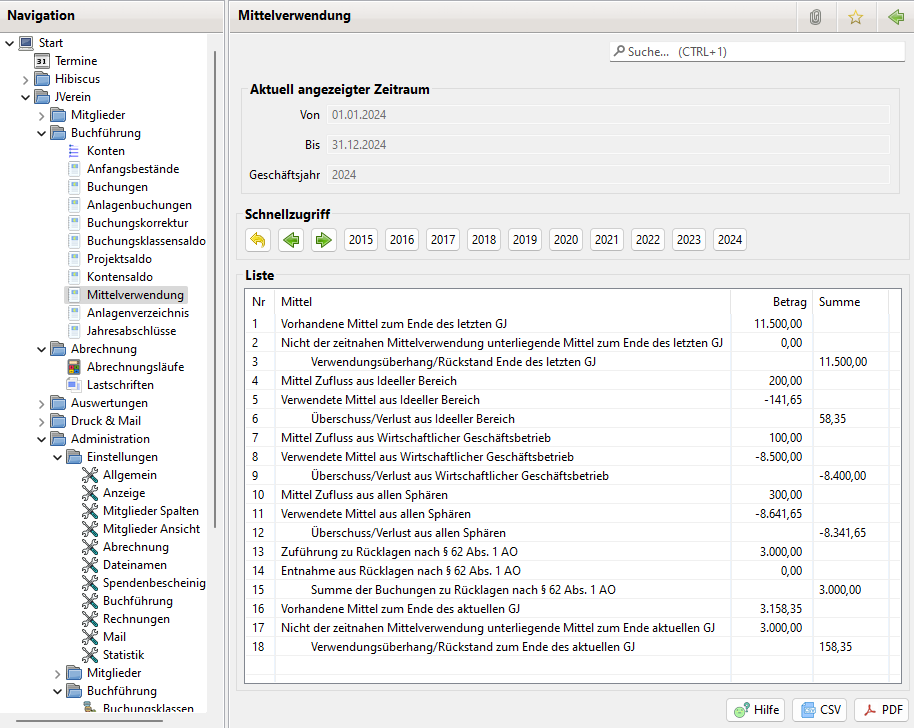
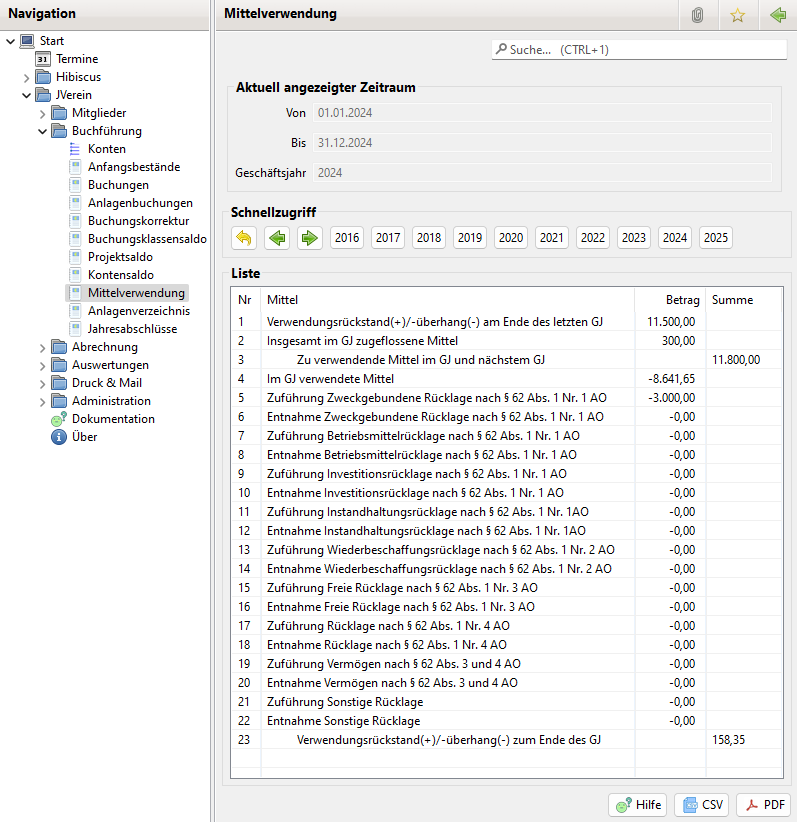
Update Mittelverwendung

Changed region(s): [[0.0, 0.0, 1.0, 1.0], [0.9034, 0.5742, 0.9335, 0.6044]]

diff --git a/v2.9.0/buchf/mittelverwendung.md b/v2.9.0/buchf/mittelverwendung.md
@@ -2,41 +2,34 @@
 
 ### Aktivierung
 
-Zur Nutzung der Mittelverwendung ist die Option in den Einstellungen->Administration->Einstellungen->Anzeige zu aktivieren.
+Zur Nutzung der Mittelverwendung ist die Option in Administration->Einstellungen->Anzeige zu aktivieren.
 
 Anschließend sollte JVerein neu gestartet werden, damit der Menüpunkt "Mittelverwendung" zur Verfügung steht.
 
 ### Allgemeines
 
-Gemeinnützige Vereine müssen ihre Einnahmen (Geld!) im aktuellen und den zwei folgenden Jahren ausgegeben haben (zeitnahe Verwendung). Dieses müssen sie dem Finanzamt nachweisen. Sie dürfen aber Rücklagen bilden. Diese sind der zeitnahen Verwendung entzogen.
+Gemeinnützige Vereine müssen ihre Einnahmen (Finanzen und Sachen) im aktuellen und den zwei folgenden Jahren verwenden muss (zeitnahe Verwendung). Dieses müssen sie dem Finanzamt nachweisen. Sie dürfen aber Rücklagen und Vermögen bilden. Diese sind der zeitnahen Verwendung entzogen.
 
-Es gibt keine feste Vorgabe wie ein Mittelverwendung Nachweis auszuschauen hat. JVerein zeigt einen Report der den Mittel Zufluss und Abfluss zeigt (Einnahmen/Ausgaben Rechnung).
+Es gibt keine feste Vorgabe wie ein Mittelverwendung Nachweis auszuschauen hat. JVerein zeigt einen Report der den Mittel Zufluss und Abfluss und die zeitnah zu verwendenden Mittel bzw. verwendeten Mittel eines Jahres zeigt.
 
-Es werden auch pro Sphäre die Einnahmen und Ausgaben aufgelistet. Daraus kann man z.B. ableiten wie viel freie Rücklagen man bilden darf (höchstens ein Drittel des Überschusses aus der Vermögensverwaltung und zusätzlich maximal 10% der Einnahmen im Ideellen Bereich und maximal 10% der Überschüsse in den Zweckbetrieben und den wirtschaftlichen Geschäftsbetrieben).
-
-Aus dem Report kann man z.B. auch sehen ob die vorhandenen Mittel kleiner sind als die Summe der Ausgaben. Falls ja wurde alles in diesem Jahr ausgegeben und die zeitnahe Mittelverwendung wäre erfüllt. Wird nicht alles ausgegeben muss es im folge Jahr passieren.
-
-Bei dem Report habe ich folgende Annahmen getroffen. Es wäre hier oder im Forum zu besprechen ob diese richtig sind und ob etwas geändert werden sollte. Da dies nur eine Aufbereitung vorhandener Daten ist greift das Feature nicht in die sonstige Logik der SW ein.
-
-
+Aus dem Report kann man z.B. sehen ob die zu verwendenden Mittel (abzüglich Entnahmen aus Rücklagen) des Geschäftsjahres kleiner sind als die im Geschäftsjahr verwendeten Mittel. Falls ja wurde alles in diesem Jahr ausgegeben und die zeitnahe Mittelverwendung wäre erfüllt. Wird nicht alles ausgegeben muss es im folge Jahr passieren.
 
 ### Anzeige
 
 Der Mittelverwendung Report lässt sich über den entsprechenden Menüeintrag in der Navigation öffnen.
 
 Der Report listet folgende Informationen auf:
-* Summe der Bestände der Geldkonten zum Ende des letzten Geschäftsjahres (berechnet aus den Anfangsbeständen der Geldkonten des aktuellen Geschäftsjahres)
-* Summe der Bestände der Rücklagen zu Ende des letzten Geschäftsjahres (berechnet aus den Anfangsbeständen der Rücklagenkonten  des aktuellen Geschäftsjahres)
-* Verwendungsüberhang/Rückstand: Dies ist der Bestand der Geldkonten abzüglich des Bestandes der Rücklagen. Diese Summe muss im aktuellen und folge Jahr ausgegeben werden
-* Je Sphäre wird die Summe der Einnahmen und Ausgaben und das Ergebnis aufgelistet
-* Zusätzlich werden die Einnahmen und Ausgaben über alle Sphären aufgelistet
-* Pro Rücklagenkonto Art werden die zugeführten und entnommen Rücklagen aufgelistet
-* Aus den berechneten Summen wird der Kontostand der Geld- und Rücklagenkonten berechnet und angezeigt
-* Diese Summen sind der Übertrag in das nächste Geschäftsjahr
+* Verwendungsrückstand/-überhang am Ende des letzten Geschäftsjahres: Dies ist der Bestand der Geldkonten und zweckfremden Anlagenkonten abzüglich des Bestandes der Rücklagen und des Vermögens
+* Insgesamt im Geschäftsjahr zugeflossene Mittel
+* Zu verwendende Mittel. Dies ist die Summe der beiden vorhergehenden Posten. Diese Summe muss im aktuellen und folgenden Geschäftsjahr ausgegeben werden
+* Im Geschäftsjahr zugeflossene Mittel
+* Zugeführte Rücklagen (nach Rücklagenart getrennt) als Mittelabfluss
+* Entnommene Rücklagen (nach Rücklagenart getrennt) als Mittelzufluss
+* Verwendungsrückstand/-überhang zum aktuellen Zeitpunkt. Für das Finanzamt ist dieser Report zum Ende des aktuellen Geschäftsjahres zu erstellen
 
 PS: Die Endsummen werden aus den getätigten Buchungen berechnet. Sie sollten mit den Anfangsbeständen der Konten des nächsten Geschäftsjahres überein stimmen. Ist das nicht der Fall, dann sind einige Buchungen nicht richtig verbucht worden z.B. wegen fehlender Buchungsart.
 
-Ist in den Einstellungen->Administration->Einstellungen->Buchführung die Checkbox "Listen: Buchungsarten ohne Buchung unterdrücken" ausgewählt werden Sphären und Anlagenkonten Arten ohne Buchung im Report nicht angezeigt.
+Ist in Administration->Einstellungen->Buchführung die Checkbox "Listen: Buchungsarten ohne Buchung unterdrücken" ausgewählt werden Rücklagenarten ohne Buchungen im Report nicht angezeigt.
 
 Die Zeilen in der Mittelverwendung sind nummeriert damit man bei einem evtl. Begleitschreiben an das Finanzamt auf die Zeilen Bezug nehmen kann.
 
@@ -49,19 +42,105 @@ Der Report kann über die Buttons CSV und PDF ausgegeben werden.
 Für eine korrekte Berechnung der Daten des Reports sind folgende Annahmen getroffen:
 * Alle Konten auf denen vorhandene Mittel (Geld) verwaltet ist, ist die Kontoart Geldkonto zugewiesen
 * Konten für Schulden wie z.B. Darlehen, Kredite etc. sind als Verbindlichkeitskonto gekennzeichnet
+* Anlagenkonten ist der korrekte Anlagenzweck zugeordnet (entweder als nutzungsgebundene Anlage oder zweckfremde Anlage)
 * Rücklagen sind auf Rücklagenkonten verbucht
 * Buchungen muss die korrekte Buchungsart mit korrekter Klassifikation als Einnahme, Ausgabe oder Umbuchung zugewiesen sein
 
 Einnahmen und Ausgaben werden wie folgt berechnet:
-* Zu den Einnahmen zählen alle Buchungen der Art Einnahme die auf Geldkonten eingehen
-* Zu den Ausgaben zählen alle Buchungen der Art Ausgabe die von Geldkonten abgehen
-* Umbuchungen zwischen Geldkonten werden nicht berücksichtigt weil sie weder Einnahmen noch Ausgaben sind
-* Umbuchungen zu Verbindlichkeitskonten und Anlagenkonten werden berücksichtigt. Dazu werden positive Umbuchungen auf diesen Konten als Ausgabe bei Geldkonten betrachtet und negative Umbuchungen als Einnahmen. Es wird davon ausgegangen, dass alle Umbuchungen auf diesen Konten von Geldkonten kommen
-* Es darf also keine Umbuchungen innerhalb Verbindlichkeitskonten und Anlagenkonten geben
+* Zu den Einnahmen zählen alle Buchungen der Art Einnahme die auf Geldkonten oder allen Anlagenkonten (Sachspenden) eingehen
+* Zu den Ausgaben zählen alle Buchungen der Art Ausgabe die von Geldkonten oder zweckfremden Anlagen abgehen
+* Umbuchungen innerhalb Geldkonten, innerhalb zweckfremden Anlagen und zwischen beiden gelten als Umschichtung und sind damit keine Mittelzuflüsse und Abflüsse
+* Umbuchungen zu Verbindlichkeitskonten (Darlehensauszahlung, Tilgung) und nutzungsgebundenen Anlagenkonten (Anschaffung einer Anlage) werden berücksichtigt. Dazu werden positive Umbuchungen auf diesen Konten als Mittelabfluss und negative Umbuchungen als Mittelzufluss betrachtet. Es wird davon ausgegangen, dass alle Umbuchungen auf diesen Konten von Geldkonten kommen
+* Es darf also keine Umbuchungen innerhalb Verbindlichkeitskonten und nutzungsgebundenen Anlagenkonten geben
 
 Hinweise:
 
 Bei einem Abrechnungslauf werden bei Lastschriften einzelne Buchungen generiert und eine Gegenbuchung. Später wird der Betrag der Gegenbuchung per Lastschrift eingezogen.
 
 Es ist darauf zu achten, dass die Gegenbuchung die Buchungsart Einnahme hat. Hätte sie die Art Ausgabe, wären die Angaben zu den Ausgaben im Report falsch. Dann wären auch die Einnahmen doppelt, wegen der Buchungen und eingegangenen Lastschrift. Die Summe würde zwar stimmen aber nicht die Angaben zu den Einnahmen und Ausgaben.
+
+## Buchungsbeispiele
+
+### Aufnahme von Darlehen, Kredite etc.
+
+Die Aufnahme eines Darlehens oder Kredit wird als Mittelzufluss betrachtet. Diese Gelder unterliegen der zeitnahen Mittelverwendung. Sie sind wie folgt zu buchen:
+* Auf dem Geldkonto (Kontoart Geldkonto) wird die Darlehenssumme (positiv) mit einer Buchungsart "Umbuchung" gebucht
+* Auf dem Darlehenskonto (Kontoart Verbindlichkeitskonto) wird die Darlehenssumme (negativ) mit einer Buchungsart "Umbuchung" gebucht
+
+### Tilgung von Darlehen, Kredite etc.
+
+Die Tilgung eines Darlehens oder Kredit wird als Mittelabfluss betrachtet. Sie sind wie folgt zu buchen:
+* Auf dem Geldkonto (Kontoart Geldkonto) wird der Tilgungsbetrag (negativ) mit einer Buchungsart "Umbuchung" gebucht
+* Auf dem Darlehenskonto (Kontoart Verbindlichkeitskonto) wird der Tilgungsbetrag (positiv) mit einer Buchungsart "Umbuchung" gebucht
+
+### Ein Mitglied spendet ein gegebenes Darlehen oder Kredit
+
+Die Spende wird mit einer Buchungsart "Einnahme" auf dem Darlehenskonto verbucht.
+
+Im Buchungsklassensaldo taucht diese Summe als Einnahme auf. In der Mittelverwendungsrechnung taucht dieser Betrag nicht auf. Es fliesen ja aktuell keine Mittel zu. Die Mittel sind ja schon bei Aufnahme des Darlehens zugeflossen. Lediglich der Mittelabfluss durch Tilgung entfällt zukünftig.
+
+### Anschaffung einer nutzungsgebundenen Anlage
+
+Anschaffungen die dem Zweck des Vereins dienen, also Anschaffungen im Ideellen Bereich oder im Zweckbetrieb werden als Mittelabfluss bewertet. Es handelt sich hier also um eine Mittelverwendung. Die Buchung erfolgt so:
+* Es wird ein Anlagenkonto mit dem Anlagenzweck "Nutzungsgebundene Anlage" angelegt
+* Die Anschaffungskosten werden auf dem Geldkonto abgebucht (negativ) mit einer Buchungsart "Umbuchung"
+* Die Anschaffungskosten werden auf dem Anlagenkonto eingebucht (positiv) mit einer Buchungsart "Umbuchung"
+
+### Verkauf einer nutzungsgebundenen Anlage
+
+Bei Verkauf einer nutzungsgebunden Anlage fliest der gesamte Verkaufspreis einem Geldkonto zu. Dieser gesamte Betrag unterliegt jetzt wieder der zeitnahen Mittelverwendung. Die Buchung erfolgt so:
+* Auf dem Geldkonto wird der Verkaufspreis verbucht mit einer Buchungsart "Einnahme"
+* Auf dem Anlagenkonto wird der aktuelle Buchwert der Anlage ausgebucht mit einer Buchungsart "Ausgabe"
+
+### Abschreibungen bei einer nutzungsgebundenen Anlage
+
+Abschreibungen werden auf dem Anlagenkonto als Ausgabe gebucht. Sie fliesen nicht in die Mittelverwendungsrechnung ein weil Anlagen hier mit dem Buchwert verrechnet werden.
+
+### Anschaffung einer zweckfremden Anlage
+
+Anschaffungen die nicht dem Zweck des Vereins dienen aber zur Mittelbeschaffung dienen, also Anschaffungen in der Vermögensverwaltung oder im wirtschaftlichen Geschäftsbetrieb, werden nicht als Mittelabfluss bewertet. Diese unterliegen also der zeitnahen Mittelverwendung. Diese Konten werden also wie Geldkonten behandelt. 
+
+Diese Anlagen dürfen nur aus vorhandenen freien Rücklagen oder aus dem Vermögen finanziert werden. Es müssen also freie Rücklagen oder Vermögen in dieser Höhe vorhanden sein. Die Buchung erfolgt so:
+* Es wird ein Anlagenkonto mit dem Anlagenzweck "Zweckfremde Anlage" angelegt
+* Die Anschaffungskosten werden auf dem Geldkonto abgebucht (negativ) mit einer Buchungsart "Umbuchung"
+* Die Anschaffungskosten werden auf dem Anlagenkonto eingebucht (positiv) mit einer Buchungsart "Umbuchung"
+
+### Verkauf einer zweckfremden Anlage
+
+Bei Verkauf einer zweckgebundene Anlage fliest der gesamte Verkaufspreis einem Geldkonto zu. Der Gewinn aus dem Verkauf wird als Gewinn aus Umschichtungen bezeichnet. Da dieser Gewinn aus freien Rücklagen oder Vermögen finanziert wurde, kann dieser den freien Rücklagen oder dem Vermögen zugeführt werden, je nachdem aus welchen der beiden Mittel er gekauft wurde. Die Buchung erfolgt so:
+* Auf dem Geldkonto wird der Verkaufspreis verbucht mit einer Buchungsart "Einnahme"
+* Auf dem Anlagenkonto wird der aktuelle Buchwert der Anlage ausgebucht mit einer Buchungsart "Ausgabe"
+* Der Gewinn wird im Konto der freien Rücklage oder dem Vermögen als Zuführung (Einnahme) verbucht
+
+### Abschreibungen bei einer zweckfremden Anlage
+
+Anscheinend ist es nicht klar geregelt wie Abschreibungen bei zweckfremden Anlagen behandelt werden sollen. In der Buchführung werden sie als Ausgabe gebucht wie bei nutzungsgebndenen Anlagen, da auch diese Anlagen mit dem Buchwert geführt werden.
+
+Es gibt jetzt wohl zwei Ansätze:
+
+Weg 1:
+* Da die Anlage aus freier Rücklage oder Vermögen finanziert wurde reduziert sich das Vermögen. Darum reduziert man auch die freie Rücklage bzw. das Vermögen durch eine gleich hohe Ausgabenbuchung
+* Bei Verkauf kann man dann vermutlich die Differenz aus Buchwert und Verkaufserlös wieder gutschreiben
+
+Weg 2:
+* Die freie Rücklage oder das Vermögen wird nicht reduziert
+* Bei Verkauf kann man dann vermutlich dann nur die Differenz aus Anschaffungskosten und Verkaufserlös wieder gutschreiben
+
+Der Weg 2 führt zu einem Mittelverwendungsüberhang weil die vorhandenen Mittel reduziert wurden aber nicht die Rücklagen bzw. das Vermögen.
+
+### Geldspenden
+
+Geldspenden sind Mittelzufluss und unterliegen damit grundsätzlich der zeitnahen Mittelverwendung. Ein Spender sollte davon ausgehen können, dass die Spende auch zeitnah verwendet wird.
+
+§ 62 Abs. 3  AO definiert aber Ausnahmen. Erfolgt die Spende aus einem der genannten Gründe, dann kann diese Spende in das Vermögen überführt werden. Es wird wie folgt gebucht:
+* Auf dem Geldkonto wird die Spende verbucht mit einer Buchungsart "Einnahme"
+* Die Spende wird zusätzlich auf einem Konto der Kontoart "Vermögen nach § 62 Abs. 3 und 4 AO" als Einnahme verbucht
+* Sollte noch kein Konto der Kontoart "Vermögen nach § 62 Abs. 3 und 4 AO"  existieren, dann muss es neu angelegt werden
+
+### Sachspende
+
+Eine Sachspende gilt nicht als Mittelzufluss sondern ist grundsätzlich eine Zuführung zum Vermögen (§ 62 Abs. 4 AO). Es wird wie folgt gebucht:
+* Es wird ein Anlagenkonto für die gespendete Sache angelegt und der Wert der Anlage als Buchung mit einer Buchungsart "Einnahme" verbucht
+* Die Spende wird zusätzlich auf einem Konto der Kontoart "Vermögen nach § 62 Abs. 3 und 4 AO" als Einnahme verbucht
+* Sollte noch kein Konto der Kontoart "Vermögen nach § 62 Abs. 3 und 4 AO"  existieren, dann muss es neu angelegt werden
 

diff --git a/v2.9.0/buchf/konten.md b/v2.9.0/buchf/konten.md
@@ -65,9 +65,15 @@ Die weiteren Felder unter Anlagenkonto Daten sind hier nicht relevant.
 Gemeinnützige Vereine müssen ihre Einnahmen im aktuellen und den zwei folgenden Jahren ausgegeben haben (zeitnahe Verwendung). Dieses müssen sie dem Finanzamt nachweisen. Sie dürfen aber Rücklagen bilden. Diese sind der zeitnahen Verwendung entzogen.
 
 Zur Dokumentation der eingestellten Rücklagen wurden die Kontoarten für Rücklagen eingeführt:
-* Rücklagenkonto nach § 62 Abs. 1 AO
-* Rücklagenkonto nach § 62 Abs. 3 und 4 AO
-* Konto für sonstige Rücklagen
+* Zweckgebundene Rücklage nach § 62 Abs. 1 Nr. 1 AO
+* Betriebsmittelrücklage nach § 62 Abs. 1 Nr. 1 AO
+* Investitionsrücklage nach § 62 Abs. 1 Nr. 1 AO
+* Instandhaltungsrücklage nach § 62 Abs. 1 Nr. 1AO
+* Wiederbeschaffungsrücklage nach § 62 Abs. 1 Nr. 2 AO
+* Freie Rücklage nach § 62 Abs. 1 Nr. 3 AO
+* Rücklage nach § 62 Abs. 1 Nr. 4 AO
+* Vermögen nach § 62 Abs. 3 und 4 AO
+* Sonstige Rücklagen
 
 Ein Verein kann für Rücklagen ein separates Bankkonto anlegen um sie dem Finanzamt nachzuweisen. Dafür fallen aber evtl. Kontoführungsgebühren an.
 
@@ -116,6 +122,7 @@ Folgende Anlagen spezifische Daten können eingegeben werden:
 *  Nutzungsdauer: Dauer der AfA. Wert Wert ist 0 bei sofortiger Abschreibung und sonst die Dauer der Abschreibung
 *  Anlagen Restwert: Restwert der Anlage der nach der Abschreibungsdauer übrig bleiben soll z.B. wenn die Anlage auch nach der Abschreibung weiter benutzt werden soll. Der Default Wert kann in den Einstellungen gesetzt werden. In JVerein kann auch eine Anlage mit Restwert 0 im Anlagenverzeichnis geführt werden. Ein Anlagenkonto bleibt solange im Anlagenverzeichnis bis es aufgelöst wird
 *  AfA Mode: Modus für die Behandlung der Abschreibung (siehe weiter unten)
+*  Anlagenzweck: Dieses Attribut wird nur angezeigt wenn [Mittelverwendung](mittelverwendung.md) aktiviert wurde.
 
 ## Einstellungen
 
